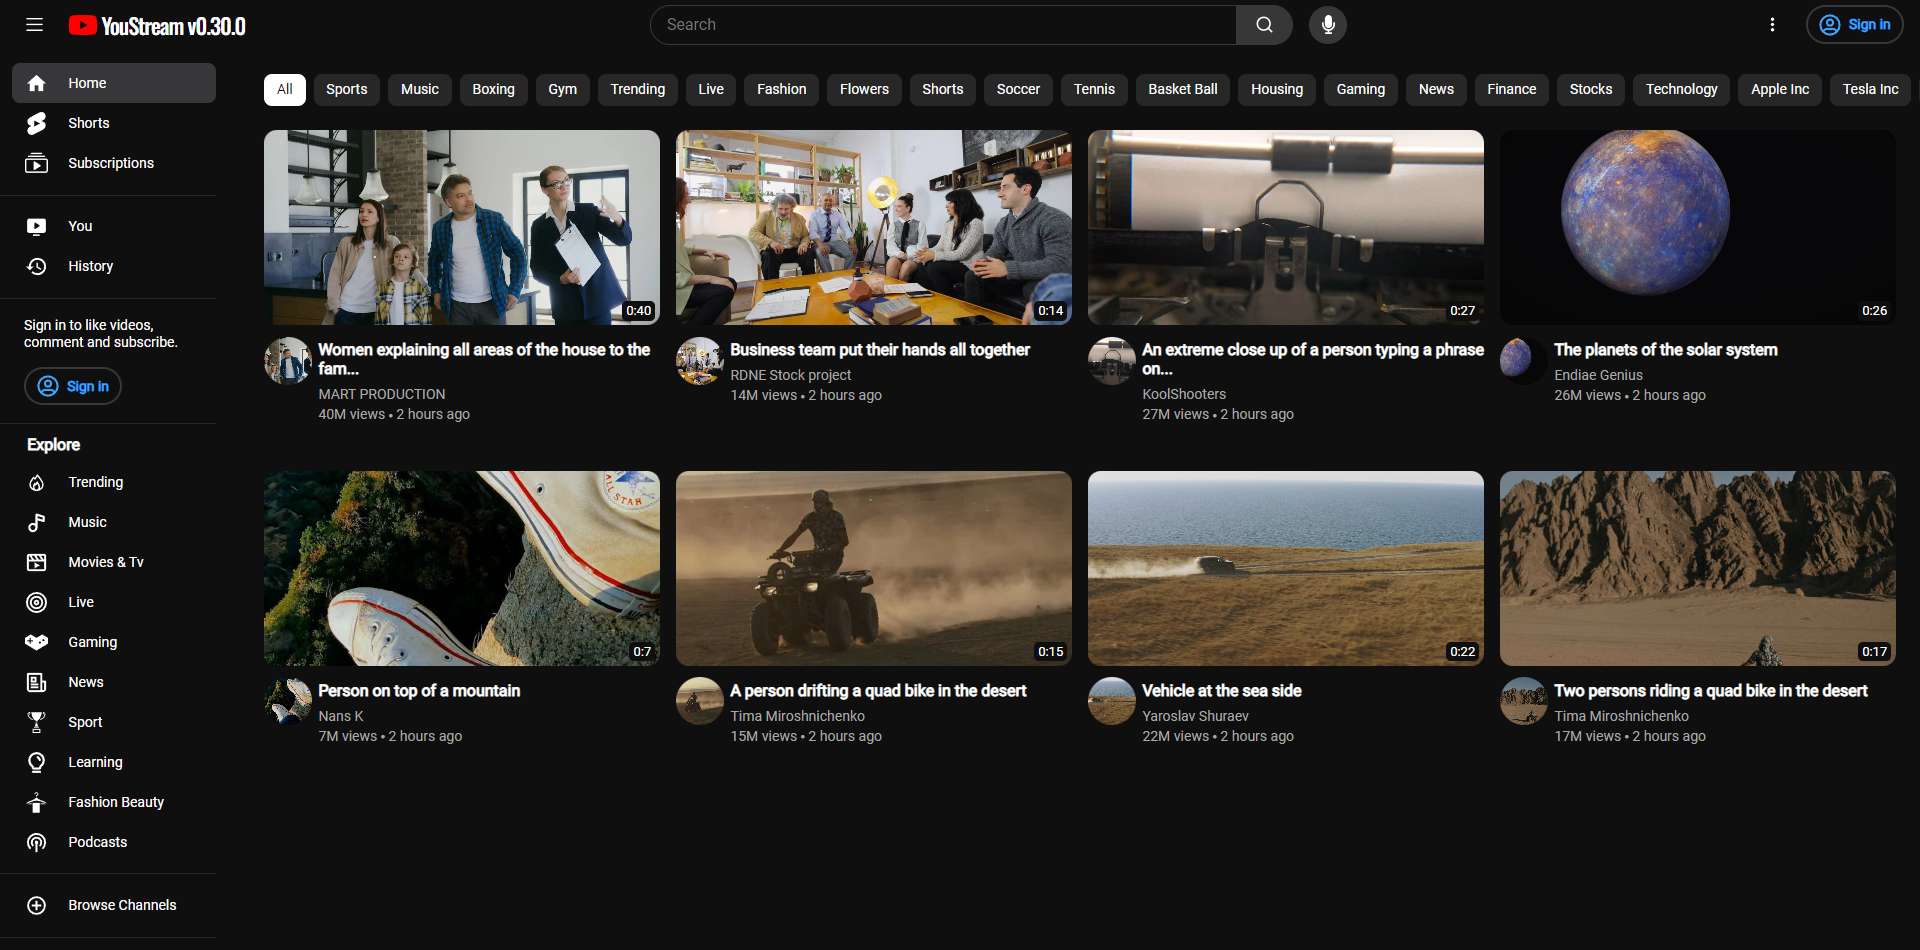
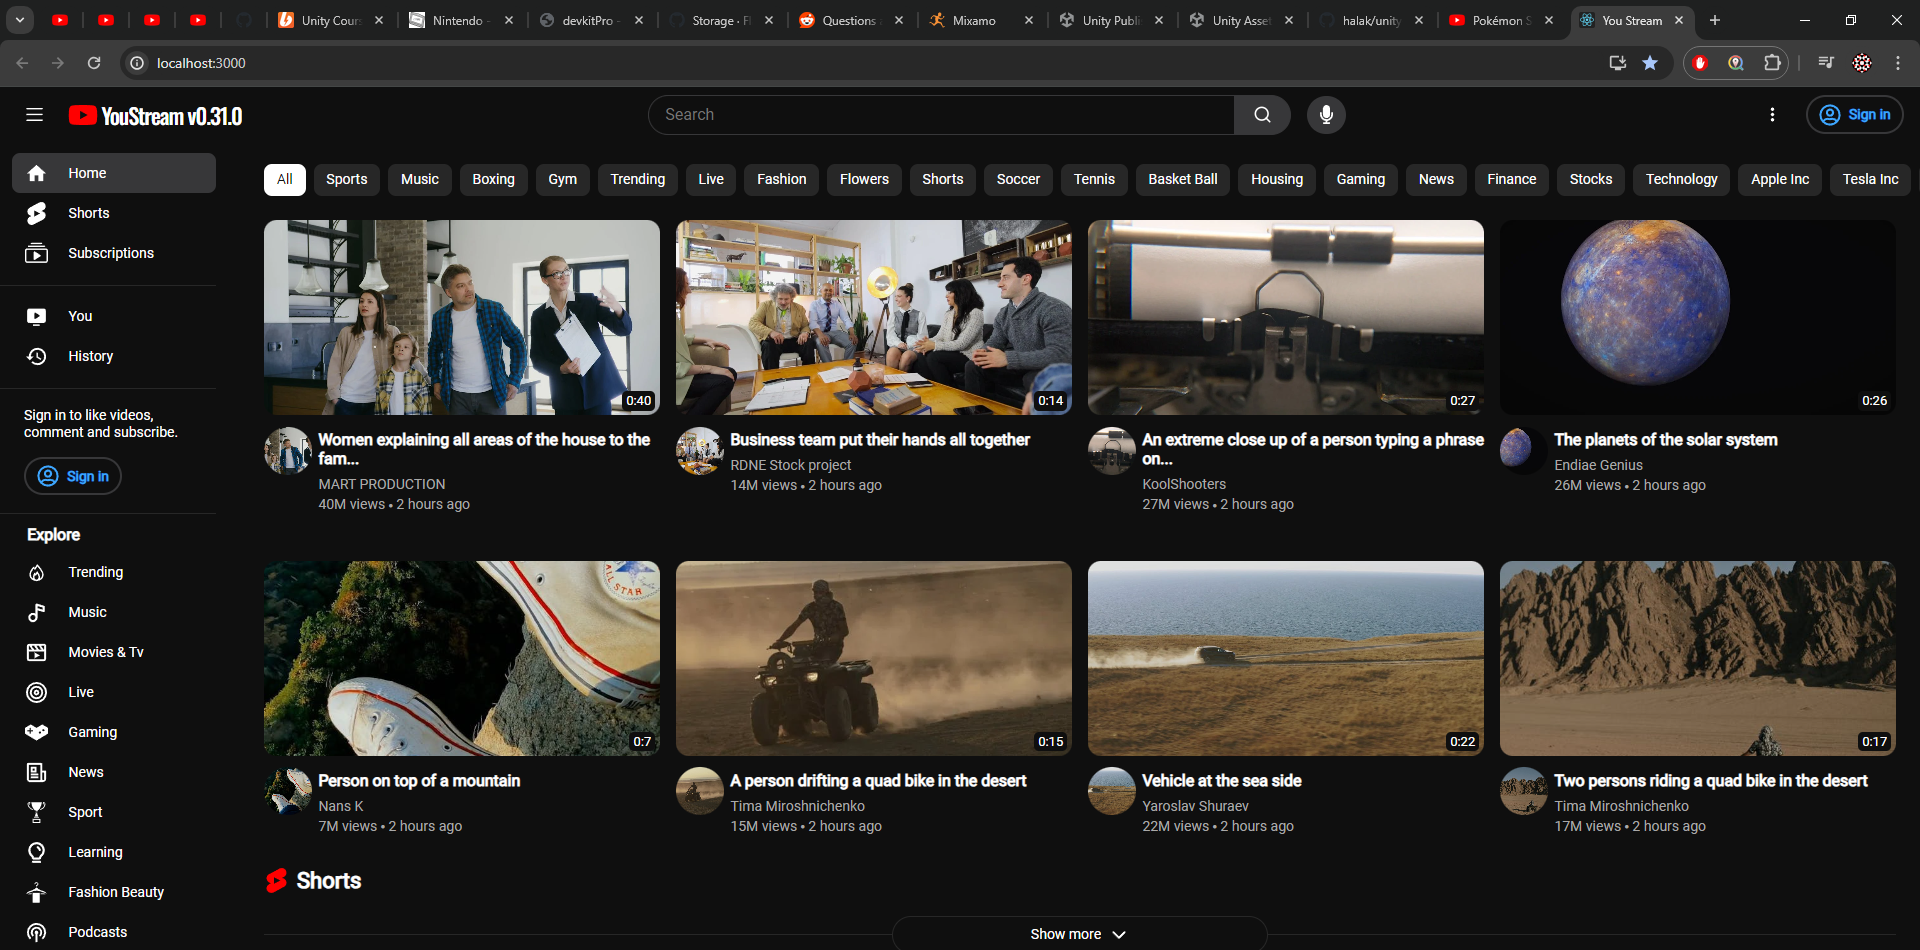
YOU STREAM 0.31.0
Add Shorts Section
Add VideoShorts.tsx
Add VideoShorts.styles.ts
Update HomepageVideos.tsx

diff --git a/src/components/videoShorts/VideoShorts.tsx b/src/components/videoShorts/VideoShorts.tsx
@@ -1,0 +1,42 @@
+import React, { useState } from "react";
+import { Video } from "pexels";
+import {
+  MoreLessButton,
+  MoreLessContainer,
+  StyledVideoShorts,
+  VideoShortsHeading,
+} from "./VideoShorts.styles";
+import { SiYoutubeshorts } from "react-icons/si";
+import { Text } from "../../utils/Text.styles";
+import { useAppContext } from "../../context/App.context";
+import { IoIosArrowDown, IoIosArrowUp } from "react-icons/io";
+
+interface IVideoShortsProps {
+  videos: Video[];
+}
+
+const VideoShorts = ({ videos }: IVideoShortsProps) => {
+  const [showLess, setShowLess] = useState(true);
+  const { text } = useAppContext();
+
+  return (
+    <StyledVideoShorts>
+      <VideoShortsHeading>
+        <SiYoutubeshorts size={25} color="red" />
+        <Text>{text.shorts}</Text>
+      </VideoShortsHeading>
+      <MoreLessContainer>
+        <MoreLessButton onClick={() => setShowLess((state) => !state)}>
+          <Text>{showLess ? text.showMore : text.showLess}</Text>
+          {showLess ? (
+            <IoIosArrowDown className="icon" size={20} />
+          ) : (
+            <IoIosArrowUp className="icon" size={20} />
+          )}
+        </MoreLessButton>
+      </MoreLessContainer>
+    </StyledVideoShorts>
+  );
+};
+
+export default VideoShorts;

diff --git a/src/components/videoShorts/VideoShorts.styles.ts b/src/components/videoShorts/VideoShorts.styles.ts
@@ -1,0 +1,48 @@
+import styled from "styled-components";
+
+export const StyledVideoShorts = styled.div`
+  width: 100%;
+  margin-top: 2rem;
+`;
+
+export const VideoShortsHeading = styled.div`
+  display: flex;
+  align-items: center;
+
+  p {
+    font-size: 22px;
+    margin-left: 0.5rem;
+    font-weight: bold;
+  }
+`;
+
+export const MoreLessContainer = styled.div`
+  width: 100%;
+  display: flex;
+  justify-content: center;
+  border-top: 1px solid ${({ theme: { divider } }) => divider};
+  margin-top: 2.5rem;
+  margin-bottom: 0.5rem;
+`;
+
+export const MoreLessButton = styled.button`
+  border: 1px solid ${({ theme: { divider } }) => divider};
+  display: flex;
+  align-items: center;
+  justify-content: center;
+  gap: 0.5rem;
+  padding: 0.5rem 0;
+  width: 23.5rem;
+  background-color: ${({ theme: { background } }) => background};
+  border-radius: 100rem;
+  transform: translateY(-50%);
+
+  &:hover {
+    background-color: ${({ theme: { grey2 } }) => grey2};
+    cursor: pointer;
+  }
+
+  .icon {
+    color: ${({ theme: { text } }) => text};
+  }
+`;

diff --git a/src/components/homepageVideos/HomepageVideos.tsx b/src/components/homepageVideos/HomepageVideos.tsx
@@ -5,6 +5,7 @@ import {
 } from "./HomepageVideos.styles";
 import { useAppContext } from "../../context/App.context";
 import RegularVideoItem from "../regularVideoItem/RegularVideoItem";
+import VideoShorts from "../videoShorts/VideoShorts";
 
 const HomepageVideos = () => {
   const { videos } = useAppContext();
@@ -18,6 +19,7 @@ const HomepageVideos = () => {
           <RegularVideoItem video={video} />
         ))}
       </RegularVideoThumbnailsContainer>
+      <VideoShorts videos={SECOND_VIDEO_SECTION} />
     </StyledHomepageVideos>
   );
 };

diff --git a/src/components/header/Header.tsx b/src/components/header/Header.tsx
@@ -48,7 +48,7 @@ const Header = () => {
         </Icon>
         <LogoSection to="/">
           <FaYoutube color="#FF0000" size={30} />
-          <Text className="logo">YouStream v0.30.0</Text>
+          <Text className="logo">YouStream v0.31.0</Text>
         </LogoSection>
       </LeftSection>
       <SearchSection>

diff --git a/README.md b/README.md
@@ -10,7 +10,7 @@
 
 - **STACK :**
 
-  - **YOU STREAM** : `0.30.0`
+  - **YOU STREAM** : `0.31.0`
   - **REACT** : `18.2.0`
   - **PEXELS** : `1.4.0`
   - **REACT ICONS** : `5.0.1`
